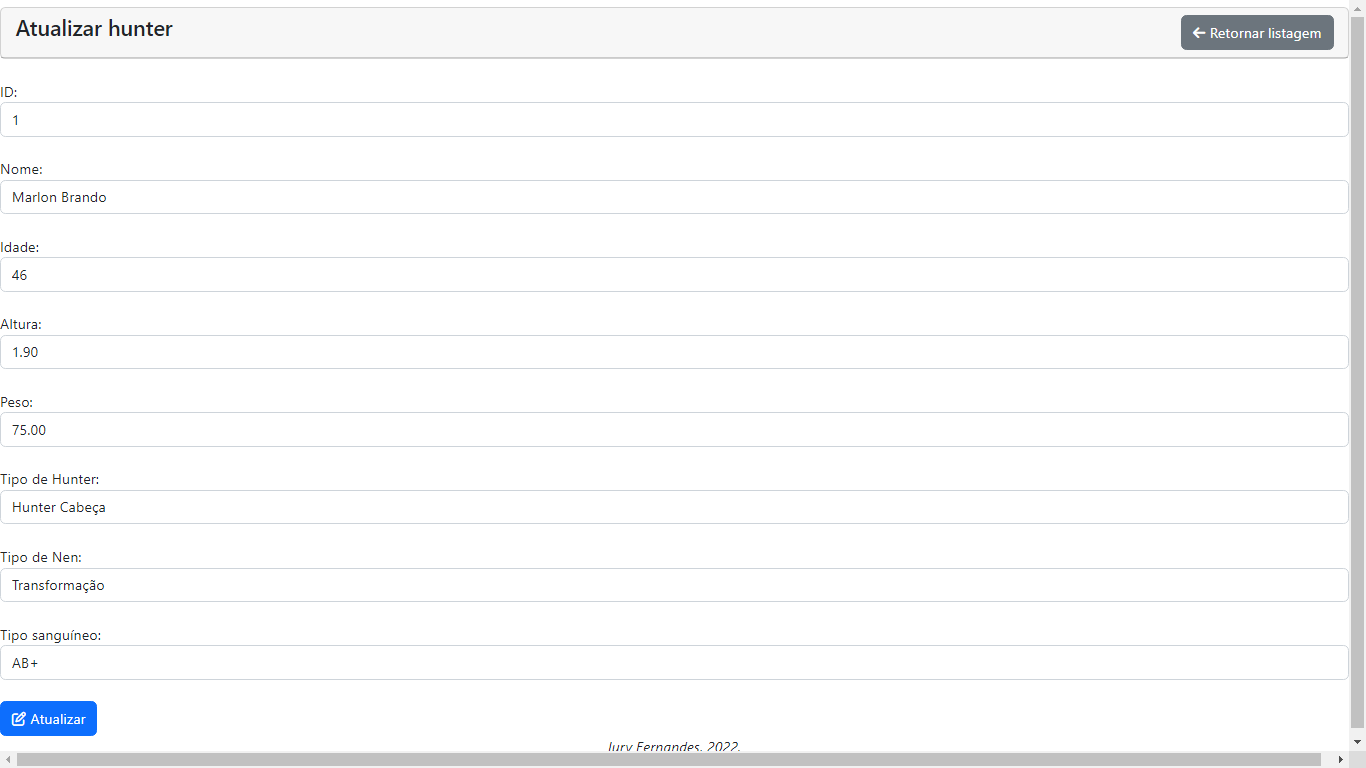
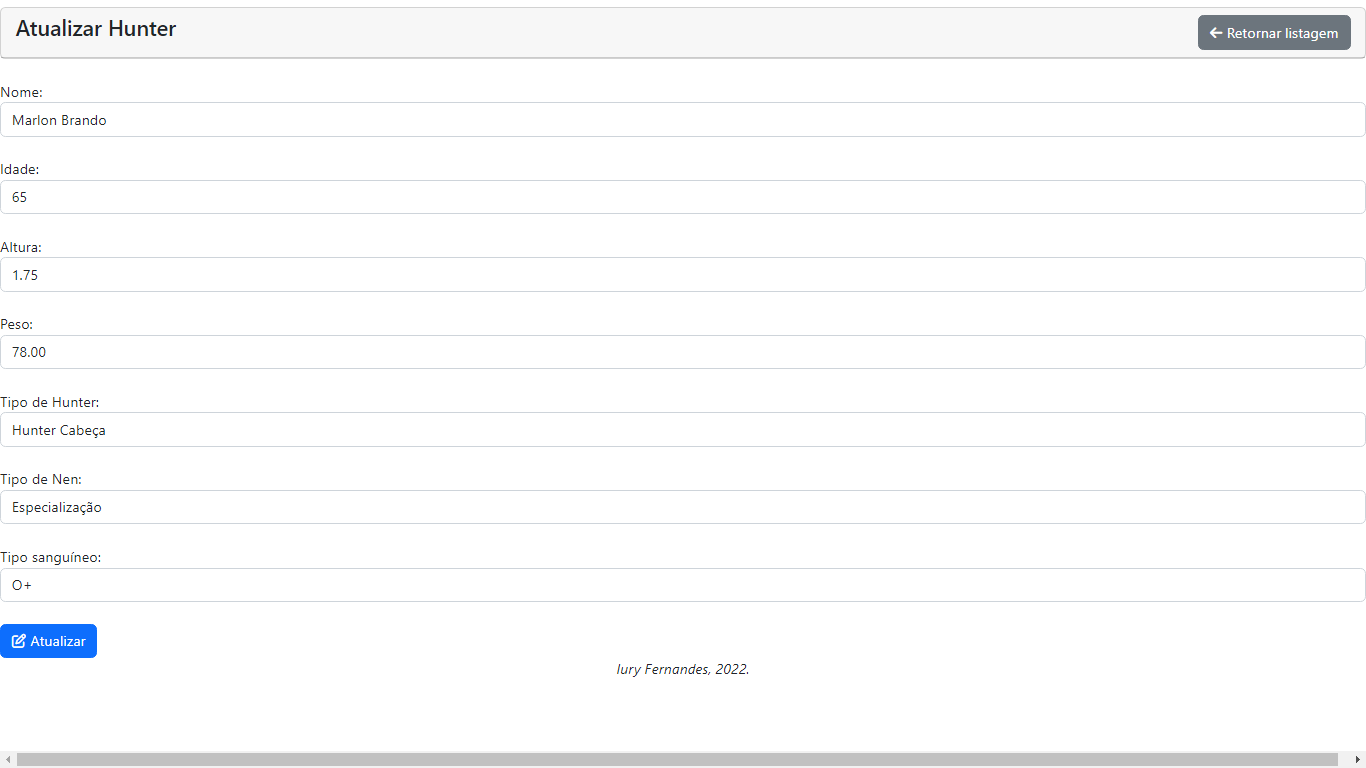
Changing Update Form

diff --git a/resources/views/update.blade.php b/resources/views/update.blade.php
@@ -6,7 +6,7 @@
             <div class="col-md-12 mt-2">
                 <div class="card">
                     <div class="card-header">
-                        <h4>Atualizar hunter
+                        <h4>Atualizar Hunter
                             <a href=" {{ url("/") }} " class="btn btn-secondary float-end" title="Retornar listagem"><i class="fa fa-arrow-left"></i>&nbsp;Retornar listagem</a>
                         </h4>
                     </div>
@@ -27,12 +27,6 @@
                     <form action="{{ url("update/$hunter->id") }}" method="POST">
                         {{ method_field('PATCH') }} {{ csrf_field() }}
                         <div class="form_group">
-                            <div class="form_group">
-                                <div for="nome_hunter">ID:
-                                    <input type="number" class="form-control" name="id" value="{{ $hunter->id }}" readonly>
-                                </div>
-                            </div>
-                            <br>
                             <div class="form_group">
                                 <div for="nome_hunter">Nome:
                                     <input type="text" class="form-control" name="nome_hunter" placeholder="Digite o nome do Hunter" maxlength="50" value="{{ $hunter->nome_hunter }}">
